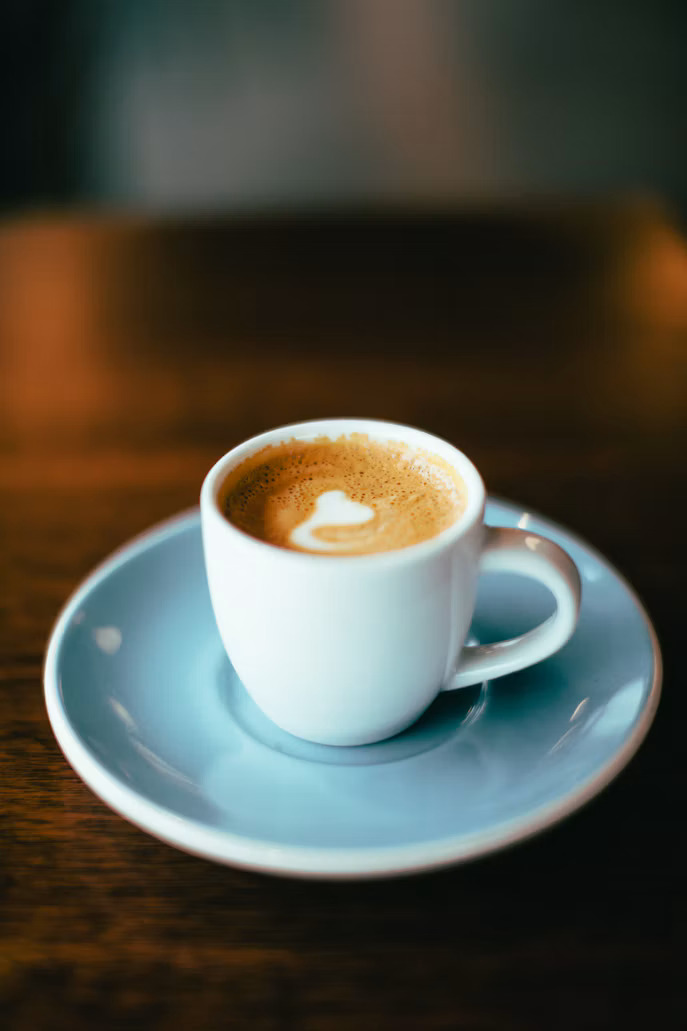
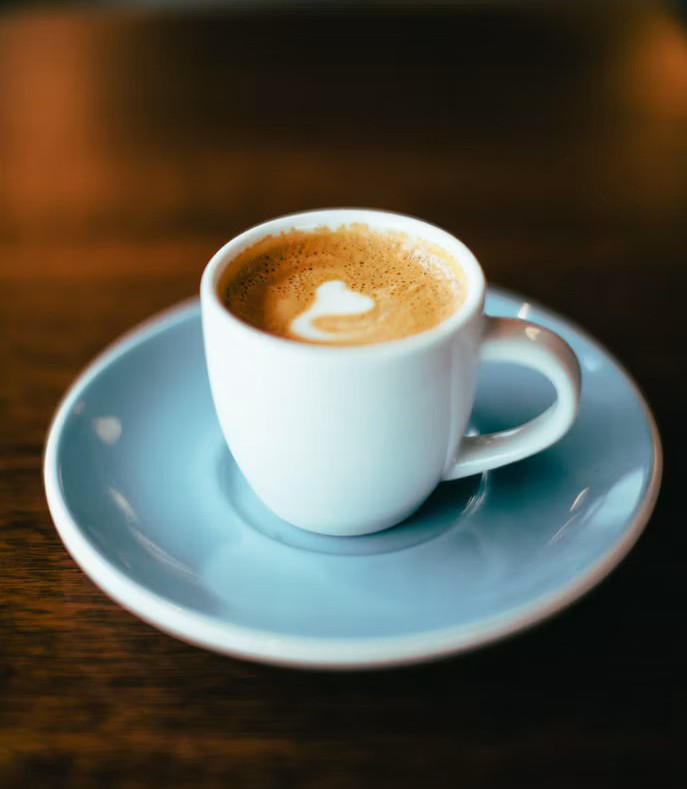
Finished the Cafe Page
Edited images outside to ensure they all fit within their cards. Applied card changes made on coffee cards to match and be uniform with the rest of the item cards.

diff --git a/cafe.html b/cafe.html
@@ -74,9 +74,12 @@
 
         <!--Menu Customization note-->
         <aside class="menu-addon" aria-label="Drink Customizations">
-            <p><strong>Syrups: </strong>Simple Syrup, Vanilla, Lavender, Kinako</p>
-            <p><strong>Complimentary Alternative Milks </strong>Oat, Almond, Soy</p>
-            <p><strong>Additional Charge: </strong>$0.50 per syrup addition, extra espresso, or matcha shot</p>
+            <h3>Syrups:</h3> 
+                <p>Simple Syrup, Vanilla, Lavender, Kinako</p>
+            <h3>Complimentary Alternative Milks:</h3>
+                <p>Oat, Almond, Soy</p>
+            <h3>Additional Charge:</h3>
+                <p>$0.50 per syrup addition, extra espresso, or matcha shot</p>
         </aside>
 
         <!--Coffee Section-->
@@ -259,7 +262,7 @@
 
         <!--Pastries Section-->
         <section class="menu-section" id="pastries">
-            <h2>Tea</h2>
+            <h2>Pastries</h2>
             <div class="menu-grid">
 
                 <!--Almond Croissant-->
@@ -270,8 +273,7 @@
                     <div class="menu-info">
                         <h3>Almond Croissant</h3>
                         <p class="menu-price">$4.75</p>
-                        <p class="menu-description">A buttery, flaky croissant filled with almond creama nd topped with
-                            powered suagr and toasted almonds.</p>
+                        <p class="menu-description">A buttery, flaky croissant filled with almond cream and topped with powdered suagr and toasted almonds.</p>
                     </div>
                 </article>
 
@@ -279,7 +281,7 @@
                 <article class="menu-card">
 
                     <!--insert img of Black Sesame Shortbread-->
-                    <img src="images/" alt="black sesame cookie on a ceramic plate." class="menu-img">
+                    <img src="images/black_sesame_shortbread.jpg" alt="black sesame cookie on a ceramic plate." class="menu-img">
                     <div class="menu-info">
                         <h3>Black Sesame Shortbread</h3>
                         <p class="menu-price">$3.50</p>
@@ -303,7 +305,7 @@
 
         <!--Seasonal Section-->
         <section class="menu-section" id="seasonal">
-            <h2>Tea</h2>
+            <h2>Seasonal</h2>
             <div class="menu-grid">
 
                 <!--Apple Chai-der-->
@@ -325,14 +327,13 @@
 
                     <!--insert img of Orange Spiced Latte-->
                     <img src="images/orange_spiced_latte.jpg"
-                        alt="latte topped with dried orange and spice dust in a glass" class="menu-img">
+                        alt="Espresso tonic topped with dried orange and spice dust in a glass" class="menu-img">
                     <div class="menu-info">
-                        <h3>Orange Spiced Latte</h3>
+                        <h3>Orange Spiced Espresso Tonic</h3>
                         <p class="menu-price">$6.00</p>
                         <p class="menu-size">12oz cup</p>
                         <p class="menu-temp">Hot/Iced</p>
-                        <p class="menu-description">Shot of espresso mixed with orange zest, cardamom syrup and milk for
-                            a bright citrus-y and floral twist.</p>
+                        <p class="menu-description">Shot of espresso mixed with orange zest, cardamom syrup and tonic water for a bright citrus-y and floral twist.</p>
                     </div>
                 </article>
 

diff --git a/style.css b/style.css
@@ -615,7 +615,7 @@ header nav{
     outline-offset: 4px;
 }
 
-/*====================MTC Page (cats.html)========================*/
+/*=============MTC Page (cats.html)===============*/
 
 /*MTC Hero Section*/
 #mtc-hero{
@@ -884,8 +884,7 @@ header nav{
     background-color: var(--dusty-rose);
 }
 
-/**==========Café Menu Page ===========**/
-
+/**========== CAFE MENU PAGE ===========**/
 #cafe-hero{
     display: grid;
     grid-template-columns: 1fr 1fr;
@@ -917,3 +916,122 @@ header nav{
     max-width: 50ch;
 }
 /**Menu Navigation**/
+.menu-nav{
+    background-color: var(--muted-sage);
+    padding: 1.25rem 2rem;
+}
+.menu-nav-list{
+    display: flex;
+    justify-content: space-evenly;
+    align-items: center;
+   
+}
+.menu-nav-list a{
+    font-family: var(--font-accent);
+    font-size: 1.375rem;
+    color: var(--charcoal-brown);
+    text-decoration: none;
+    transition: color 0.2s ease, transform 0.2s ease;
+    display: inline-block;
+}
+.menu-nav-list a:hover{
+    color: var(--vintage-plum);
+    transform: translateY(-3px);
+}
+
+/**Menu customizations/add-ons**/
+.menu-addon{
+    background-color: var(--soft-blush);
+    padding: 1.5rem 2rem;
+    text-align: center;
+}
+.menu-addon h3{
+    font-family: var(--font-accent);
+    font-size: 1.5rem;
+    font-weight: bold;
+    color: var(--vintage-plum);
+    margin-bottom: 0.5rem;
+}
+.menu-addon p{
+    font-family: var(--font-body);
+    font-size: 1rem;
+    line-height: 1.5;
+    color: var(--charcoal-brown);
+}
+.menu-addon p:not(:last-child){
+    margin-bottom: 1.25rem;
+}
+
+/**Coffee section**/
+.menu-section{
+    padding: 3rem 5rem;
+    background-color: var(--warm-ivory);
+}
+.menu-section h2{
+    font-family: var(--font-header);
+    font-size: 2rem;
+    color: var(--vintage-plum);
+    margin-bottom: 2rem;
+}
+
+/**menu grid**/
+.menu-grid{
+    display: grid;
+    grid-template-columns: repeat(4, minmax(0, 1fr));
+    gap: 2rem;
+}
+
+/**individual cards**/
+.menu-card{
+    display: flex;
+    flex-direction: column;
+    background-color: var(--soft-blush);
+    border-radius: 12px;
+    overflow: hidden;
+    box-shadow: var(--box-shadow);
+    transition: transform 0.2s ease, var(--box-shadow) 0.2s ease;
+}
+.menu-card:hover{
+    transform: translateY(-4px);
+    box-shadow: var(--box-shadow);
+}
+.menu-img{
+    display: block;
+    width: 100%;
+    height: 220px;
+    object-fit: contain;
+    padding: 1rem;
+    box-sizing: border-box;
+    background-color: var(--soft-blush);
+}
+
+/**Menu Items**/
+.menu-info{
+    padding: 1.25rem;
+}
+.menu-info h3{
+    font-family: var(--font-accent);
+    font-size: 1.75rem;
+    font-weight: bold;
+    color: var(--vintage-plum);
+    margin-bottom: 0.75rem;
+}
+.menu-price{
+    font-family: var(--font-body);
+    font-size: 1.25rem;
+    font-weight: bold;
+    color: var(--charcoal-brown);
+    margin: 0.5rem 0;
+}
+.menu-size,
+.menu-temp{
+    font-size: 0.95rem;
+    color: var(--charcoal-brown);
+    line-height: 1.5;
+}
+.menu-description{
+    font-size: 1rem;
+    line-height: 1.6;
+    color: var(--charcoal-brown);
+    margin-top: 1rem;
+}
